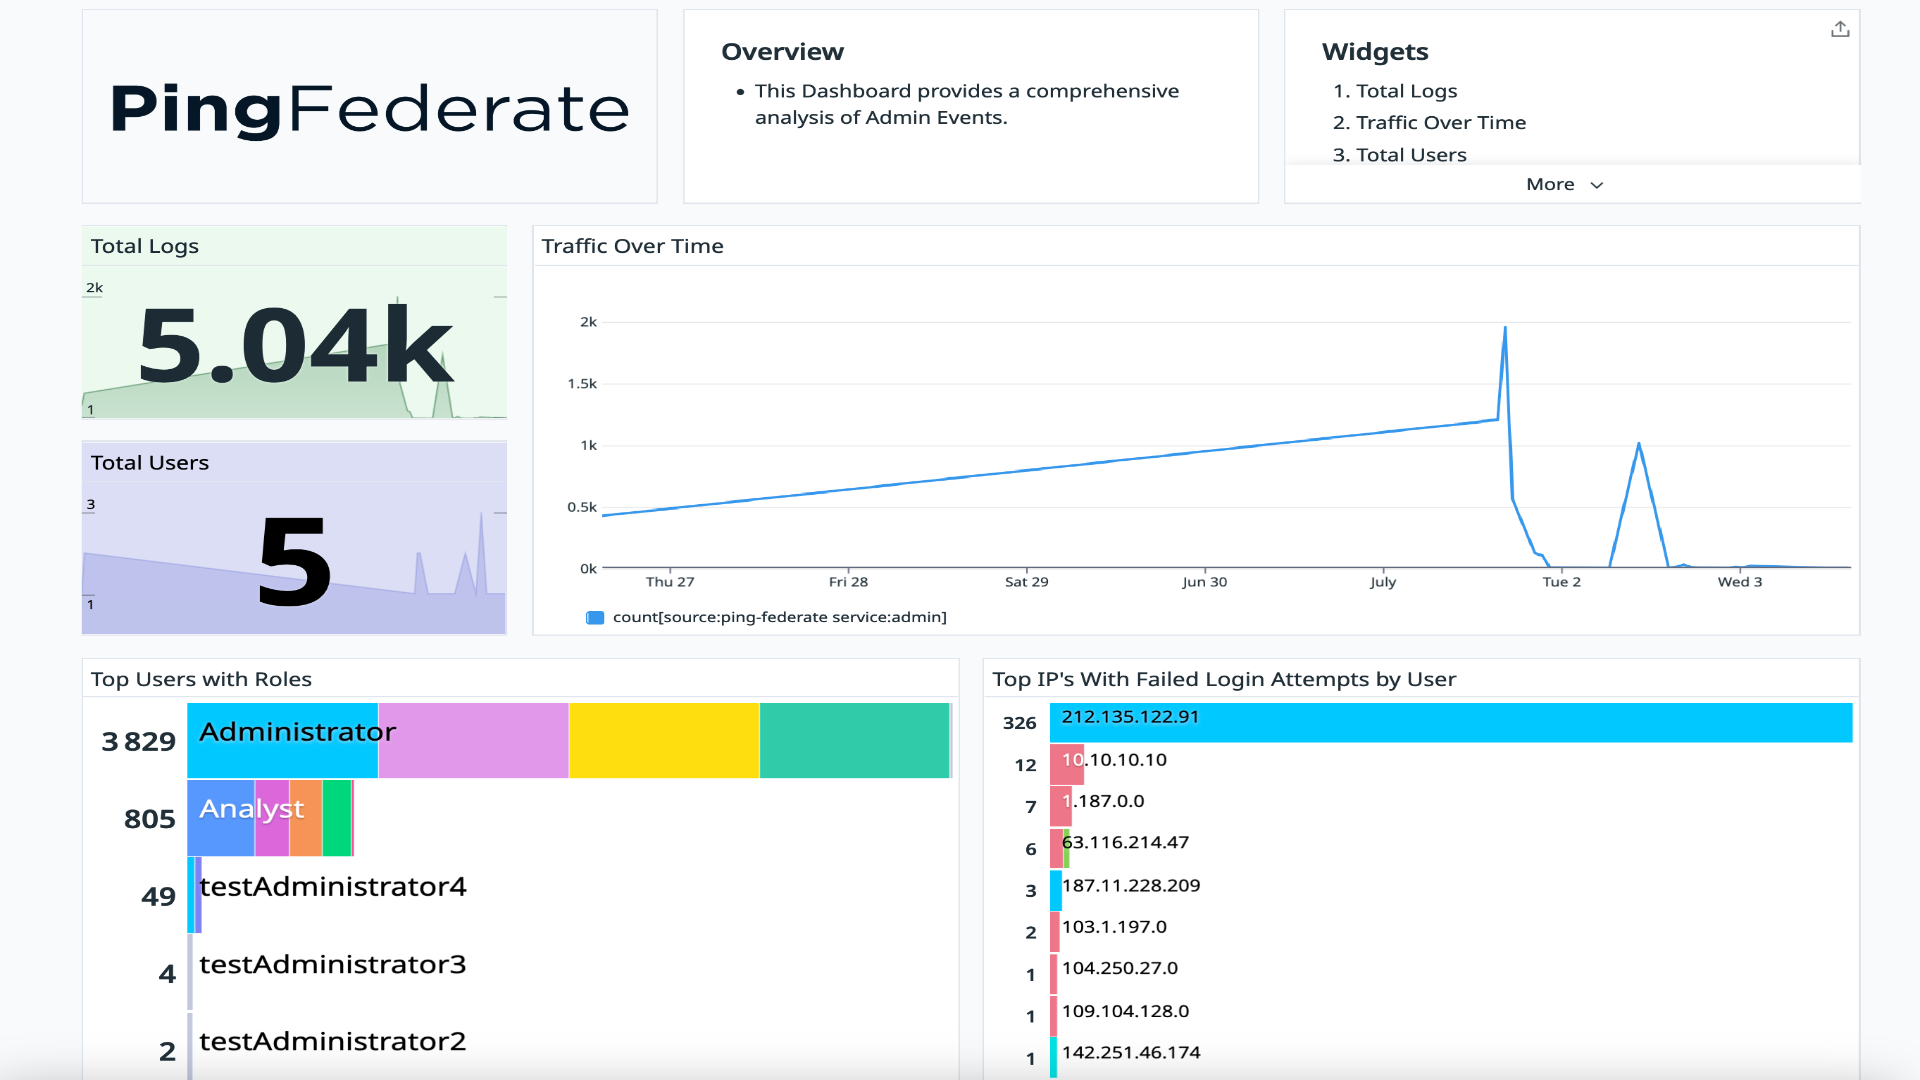
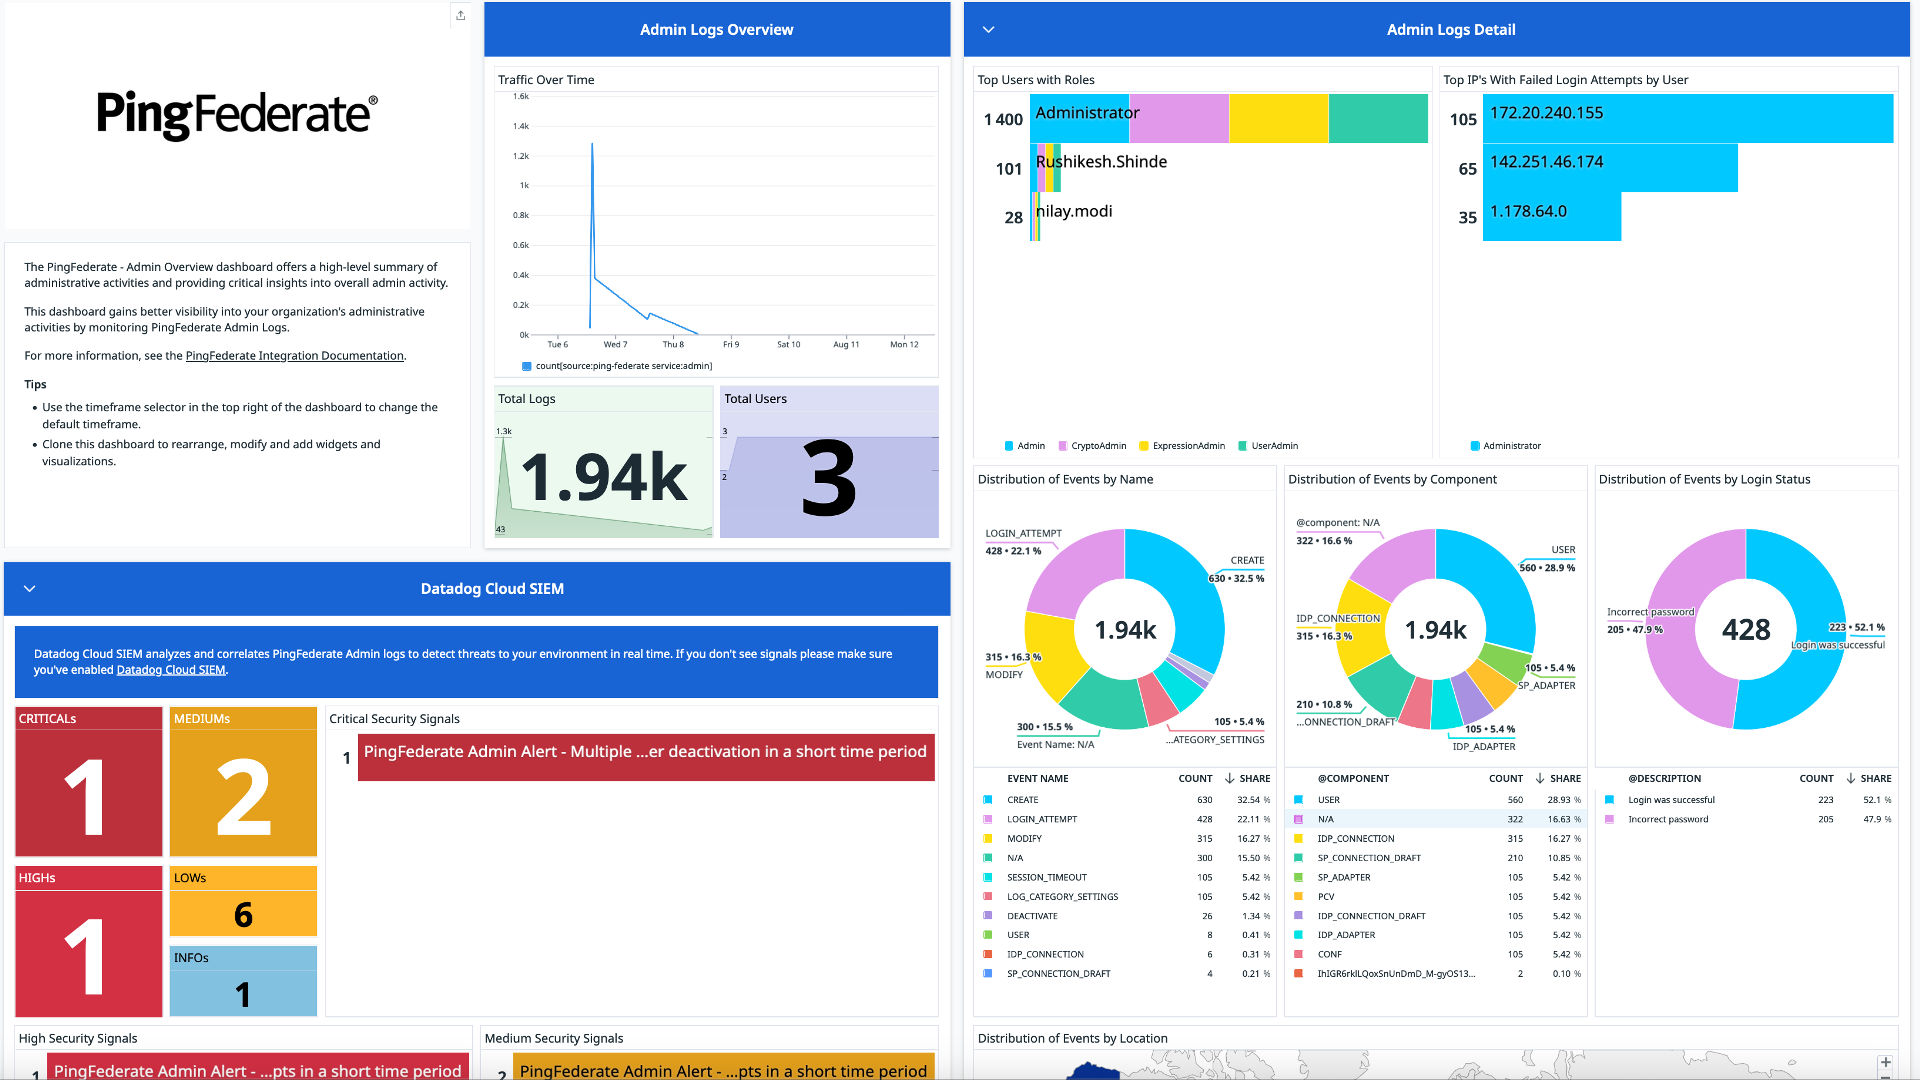
updated dashboards,images and agent version

diff --git a/ping_federate/README.md b/ping_federate/README.md
@@ -11,7 +11,7 @@ This integration provides enrichment and visulization for admin and audit logs. 
 
 To install the PingFederate integration, run the following Agent installation command and the steps below. For more information, see the [Integration Management][4] documentation.
 
-**Note**: This step is not necessary for Agent version >= 7.54.0.
+**Note**: This step is not necessary for Agent version >= 7.57.0.
 
 Linux command
   ```shell
